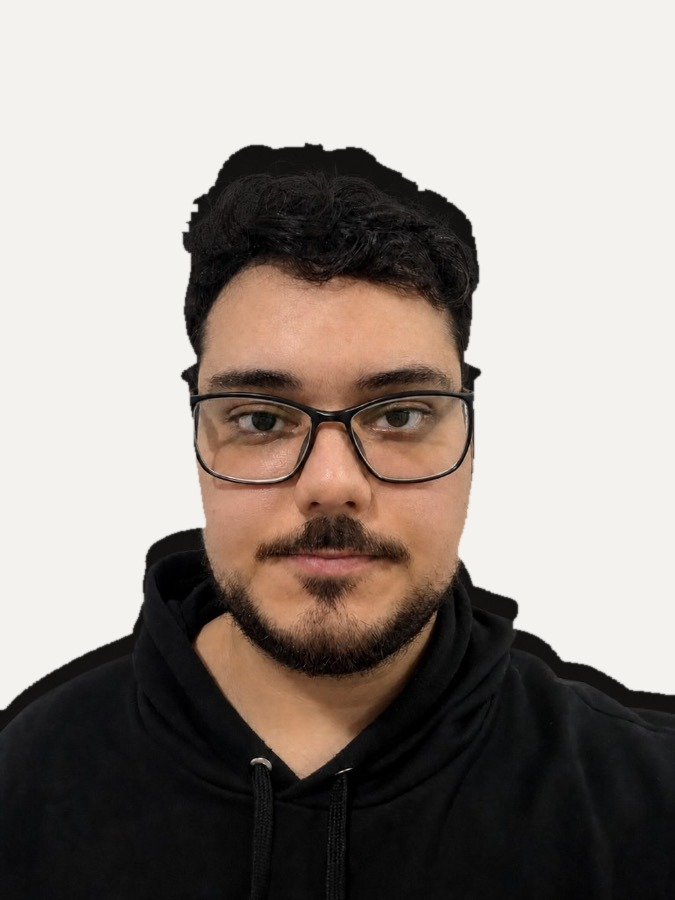
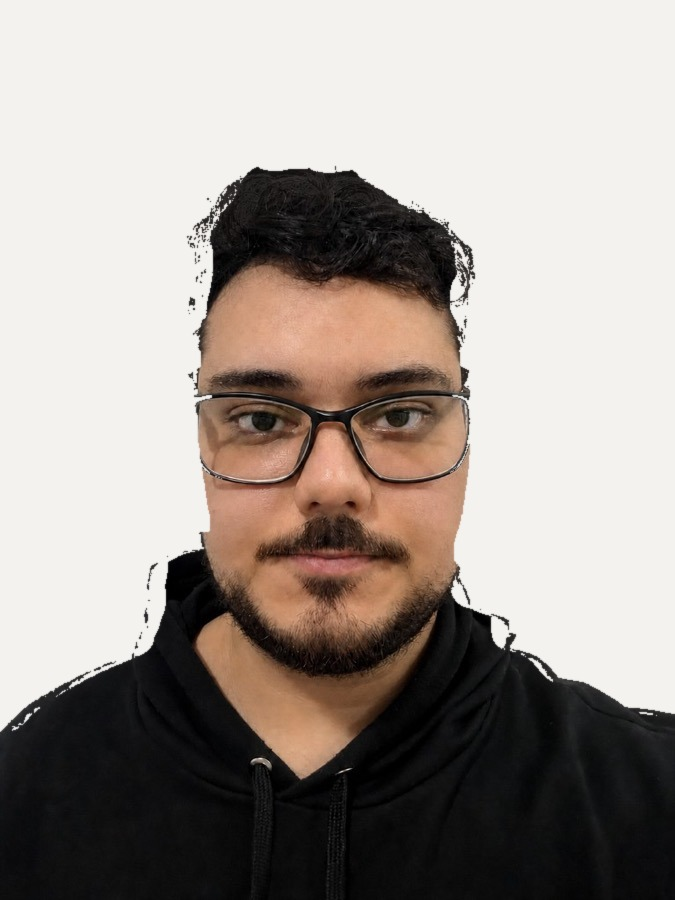
fix: strip black shell from light hero portrait
Tighten the light bake mask so dark-background pixels stop reading as
extra hair volume, and hide the inactive theme image with display.

Changed region(s): [[0.0, 0.1556, 0.7156, 0.8089], [0.6533, 0.5911, 1.0, 0.8089]]

diff --git a/apps/web/src/app/page.module.css b/apps/web/src/app/page.module.css
@@ -101,19 +101,19 @@
 }
 
 .portraitLight {
-  opacity: 1;
+  display: block;
 }
 
 .portraitDark {
-  opacity: 0;
+  display: none;
 }
 
 :global([data-theme="dark"]) .portraitLight {
-  opacity: 0;
+  display: none;
 }
 
 :global([data-theme="dark"]) .portraitDark {
-  opacity: 1;
+  display: block;
 }
 
 .section {
